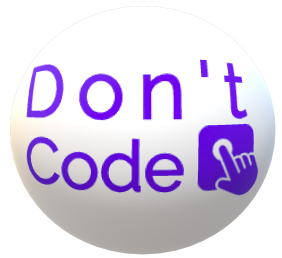
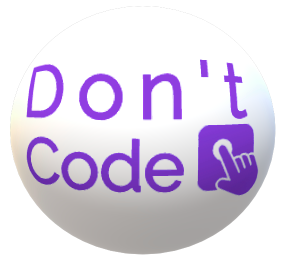
simplified homepage

diff --git a/index.html b/index.html
@@ -102,10 +102,10 @@
       <section class="home-section home-parallax home-fade module pb-0 bg-dark landing-reason parallax-bg" data-background="assets/images/builder-and-previewer.png">
         <div class="titan-caption">
           <div class="row">
-            <div class="col-sm-4" style="padding-left: 10%"><img src="assets/images/promo-small.png" alt=""></div>
+            <div class="col-sm-4" style="padding-left: 10%"><img src="assets/images/promo-small-violet.png" alt=""></div>
             <div class="col-sm-8">
               <h2 class="module-title font-alt align-left">Dont-code Platform</h2>
-              <p class="module-subtitle font-serif align-left">Instantly produce the application you need. .</p>
+              <p class="module-subtitle font-serif align-left">Instantly produce the application you need.</p>
               <p>Dont-code is a low-code / no-code platform letting user create their own applications based on complete feature sets developed by IT.</p>
               <a class="btn btn-border-w btn-round" href="apps.html" target="_blank"><i class="icon-desktop"></i>Try a demo application</a>
               <a class="btn btn-border-w btn-round video-pop-up" href="assets/images/dont-code-video.gif"><i class="icon-video"></i>Watch the creation of an application</a>
@@ -120,36 +120,36 @@
           <div class="container">
             <div class="row">
               <div class="col-sm-6 col-sm-offset-3">
-                <h2 class="module-title font-alt">Features</h2>
+                <h2 class="module-title font-alt">Highlights</h2>
                 <div class="module-subtitle font-serif">Dont-code platform is developed to offer the following benefits:</div>
               </div>
             </div>
             <div class="row multi-columns-row">
               <div class="col-md-4 col-sm-6 col-xs-12">
                 <div class="features-item">
-                  <div class="features-icon"><span class="icon-puzzle"></span></div>
-                  <h3 class="features-title font-alt">Less skills needed</h3>
-                  <p>No IT or Design skill needed. Just describe what you want and the platform manages the rest.</p>
+                  <div class="alt-features-icon"><span class="icon-puzzle"></span></div>
+                  <h3 class="alt-features-title font-alt">For everyone</h3>
+                  <p>No IT or Design skill needed: The person developing the application is the one using it.</p>
                 </div>
               </div>
               <div class="col-md-4 col-sm-6 col-xs-12">
                 <div class="features-item">
-                  <div class="features-icon"><span class="icon-hourglass"></span></div>
-                  <h3 class="features-title font-alt">Realtime feedback</h3>
+                  <div class="alt-features-icon"><span class="icon-hourglass"></span></div>
+                  <h3 class="alt-features-title font-alt">Realtime feedback</h3>
                   <p>Check the resulting application while you design it!</p>
                 </div>
               </div>
               <div class="col-md-4 col-sm-6 col-xs-12">
                 <div class="features-item">
-                  <div class="features-icon"><span class="icon-gears"></span></div>
-                  <h3 class="features-title font-alt">Highly Extensible</h3>
+                  <div class="alt-features-icon"><span class="icon-gears"></span></div>
+                  <h3 class="alt-features-title font-alt">Highly Extensible</h3>
                   <p>Extendable by any developer thanks to its plugin architecture and Open source license. See dev page...</p>
                 </div>
               </div>
             </div>
           </div>
         </section>
-        <section class="module module-extra-small bg-dark-60" data-background="assets/images/dont-code-video.gif" id="presentation">
+        <section class="module module-extra-small bg-dark-90" data-background="assets/images/dont-code-video.gif" id="presentation">
           <div class="container">
             <div class="row">
               <div class="col-sm-12">
@@ -160,10 +160,6 @@
                 </div>
               </div>
             </div>
-          </div>
-        </section>
-        <section class="module-small bg-dark">
-          <div class="container">
             <div class="row">
               <div class="col-sm-6 col-md-8 col-lg-6 col-lg-offset-2">
                 <div class="callout-text font-alt">
@@ -177,7 +173,50 @@
             </div>
           </div>
         </section>
-        <section class="module module-extra-small bg-light" id="situation">
+        <section class="module module-extra-small bg-light" id="features">
+          <div class="container">
+            <div class="row">
+              <div class="col-sm-6 col-sm-offset-3">
+                <h2 class="module-title font-alt">Dont-code features</h2>
+                <div class="module-subtitle font-serif">Dont-code (will) provide tools for end users, IT teams and technical platform developers to work together.</div>
+              </div>
+            </div>
+            <div class="row">
+              <div class="col-sm-6 col-md-3 col-lg-3">
+                <div class="alt-features-item">
+                  <div class="alt-features-icon"><span class="icon-strategy"></span></div>
+                  <h3 class="alt-features-title font-alt">Builder</h3>Create your application using this tool: Have your application in seconds just by answering questions.
+                </div>
+                <div class="alt-features-item">
+                  <div class="alt-features-icon"><span class="icon-tools-2"></span></div>
+                  <h3 class="alt-features-title font-alt">No Design</h3>Only few of us have designer's skills, with Dont-code you don't need to drag'n drop elements in a page.
+                </div>
+                <div class="alt-features-item">
+                  <div class="alt-features-icon"><span class="icon-target"></span></div>
+                  <h3 class="alt-features-title font-alt">Marketplaces</h3>Extensions will be available through a global marketplace, each enterprise can have a specific one with plugins pre-configured by IT Teams.
+                </div>
+              </div>
+              <div class="col-md-6 col-lg-6 hidden-xs hidden-sm">
+                <div class="alt-services-image align-center"><img src="assets/images/promo-violet.png" alt="Feature Image"></div>
+              </div>
+              <div class="col-sm-6 col-md-3 col-lg-3">
+                <div class="alt-features-item">
+                  <div class="alt-features-icon"><span class="icon-camera"></span></div>
+                  <h3 class="alt-features-title font-alt">Previewer</h3>See your application getting live while you work in the Builder. You can even edit data on the fly.
+                </div>
+                <div class="alt-features-item">
+                  <div class="alt-features-icon"><span class="icon-mobile"></span></div>
+                  <h3 class="alt-features-title font-alt">Extensible</h3>There's no limit in what extensions provided by any developer can modify the platform. A Seed project can get you started in not time!
+                </div>
+                <div class="alt-features-item">
+                  <div class="alt-features-icon"><span class="icon-linegraph"></span></div>
+                  <h3 class="alt-features-title font-alt">Open source</h3>The core Dont-code platform is under MIT license, the applications are licensed with AGPL3.
+                </div>
+              </div>
+            </div>
+          </div>
+        </section>
+        <section class="module module-extra-small bg-dark-90" id="situation">
           <div class="container">
             <div class="row">
               <div class="col-sm-6 col-sm-offset-3">
@@ -210,7 +249,7 @@
             </div>
           </div>
         </section>
-        <section class="module module-extra-small" id="solutions">
+        <section class="module module-extra-small bg-light" id="solutions">
           <div class="container">
             <div class="row">
               <div class="col-sm-6 col-sm-offset-3">
@@ -221,66 +260,23 @@
             <div class="row multi-columns-row">
               <div class="col-md-4 col-sm-6 col-xs-12">
                 <div class="features-item">
-                  <div class="features-icon"><span class="icon-presentation"></span></div>
-                  <h3 class="features-title font-alt">Users design application</h3>
+                  <div class="alt-features-icon"><span class="icon-presentation"></span></div>
+                  <h3 class="alt-features-title font-alt">Users design application</h3>
                   <p>Enterprise users creates their own applications by answering questions, and immediately see the result.</p>
                 </div>
               </div>
               <div class="col-md-4 col-sm-6 col-xs-12">
                 <div class="features-item">
-                  <div class="features-icon"><span class="icon-compass"></span></div>
-                  <h3 class="features-title font-alt">IT adapt features</h3>
+                  <div class="alt-features-icon"><span class="icon-compass"></span></div>
+                  <h3 class="alt-features-title font-alt">IT adapt features</h3>
                   <p>IT teams configure and deploy plugins working out of the box into their environments with the low-code tools provided by Dont-code platform.</p>
                 </div>
               </div>
               <div class="col-md-4 col-sm-6 col-xs-12">
                 <div class="features-item">
-                  <div class="features-icon"><span class="icon-toolbox"></span></div>
-                  <h3 class="features-title font-alt">Complexity is managed</h3>
+                  <div class="alt-features-icon"><span class="icon-toolbox"></span></div>
+                  <h3 class="alt-features-title font-alt">Complexity is managed</h3>
                   <p>Opensource or Market solutions are encapsulated into Dont-code plugins that will be adapted by the Enterprise IT teams.</p>
-                </div>
-              </div>
-            </div>
-          </div>
-        </section>
-        <section class="module module-extra-small" id="features">
-          <div class="container">
-            <div class="row">
-              <div class="col-sm-6 col-sm-offset-3">
-                <h2 class="module-title font-alt">Dont-code features</h2>
-                <div class="module-subtitle font-serif">Dont-code (will) provide tools for end users, IT teams and technical platform developers to work together.</div>
-              </div>
-            </div>
-            <div class="row">
-              <div class="col-sm-6 col-md-3 col-lg-3">
-                <div class="alt-features-item">
-                  <div class="alt-features-icon"><span class="icon-strategy"></span></div>
-                  <h3 class="alt-features-title font-alt">Builder</h3>Create your application using this tool: Have your application in seconds just by answering questions.
-                </div>
-                <div class="alt-features-item">
-                  <div class="alt-features-icon"><span class="icon-tools-2"></span></div>
-                  <h3 class="alt-features-title font-alt">No Design</h3>Only few of us have designer's skills, with Dont-code you don't need to drag'n drop elements in a page.
-                </div>
-                <div class="alt-features-item">
-                  <div class="alt-features-icon"><span class="icon-target"></span></div>
-                  <h3 class="alt-features-title font-alt">Marketplaces</h3>Extensions will be available through a global marketplace, each enterprise can have a specific one with plugins pre-configured by IT Teams.
-                </div>
-              </div>
-              <div class="col-md-6 col-lg-6 hidden-xs hidden-sm">
-                <div class="alt-services-image align-center"><img src="assets/images/promo.png" alt="Feature Image"></div>
-              </div>
-              <div class="col-sm-6 col-md-3 col-lg-3">
-                <div class="alt-features-item">
-                  <div class="alt-features-icon"><span class="icon-camera"></span></div>
-                  <h3 class="alt-features-title font-alt">Previewer</h3>See your application getting live while you work in the Builder. You can even edit data on the fly.
-                </div>
-                <div class="alt-features-item">
-                  <div class="alt-features-icon"><span class="icon-mobile"></span></div>
-                  <h3 class="alt-features-title font-alt">Extensible</h3>There's no limit in what extensions provided by any developer can modify the platform. A Seed project can get you started in not time!
-                </div>
-                <div class="alt-features-item">
-                  <div class="alt-features-icon"><span class="icon-linegraph"></span></div>
-                  <h3 class="alt-features-title font-alt">Open source</h3>The core Dont-code platform is under MIT license, the applications are licensed with AGPL3.
                 </div>
               </div>
             </div>
@@ -548,7 +544,7 @@
           </div>
         </section>
         <hr class="divider-d">
-        <footer class="footer bg-dark">
+        <footer class="footer bg-footer">
           <div class="container">
             <div class="row">
               <div class="col-sm-6">

diff --git a/apps.html b/apps.html
@@ -88,16 +88,22 @@
         <section class="module">
           <div class="container">
             <div class="row">
+              <div class="col-sm-6 col-sm-offset-3">
+                <h2 class="module-title font-alt">Demo applications</h2>
+                <div class="module-subtitle font-serif"></div>
+              </div>
+            </div>
+            <!-- div class="row">
               <div class="col-sm-12">
                 <ul class="filter font-alt" id="filters">
                   <li><a class="current wow fadeInUp" href="#" data-filter="*">All</a></li>
-                  <!-- li><a class="wow fadeInUp" href="#" data-filter=".illustration" data-wow-delay="0.2s">Illustration</a></li>
+                  <li><a class="wow fadeInUp" href="#" data-filter=".illustration" data-wow-delay="0.2s">Illustration</a></li>
                   <li><a class="wow fadeInUp" href="#" data-filter=".marketing" data-wow-delay="0.4s">Marketing</a></li>
                   <li><a class="wow fadeInUp" href="#" data-filter=".photography" data-wow-delay="0.6s">Photography</a></li>
-                  <li><a class="wow fadeInUp" href="#" data-filter=".webdesign" data-wow-delay="0.6s">Web Design</a></li -->
+                  <li><a class="wow fadeInUp" href="#" data-filter=".webdesign" data-wow-delay="0.6s">Web Design</a></li>
                 </ul>
               </div>
-            </div>
+            </div -->
             <ul class="works-grid works-grid-gut works-hover-w" id="works-grid">
               <li class="work-item illustration webdesign"><a href="https://dont-code.net/preview-ui/?projectId=Comparatif%20sans%20Gluten%20ni%20Lactose">
                 <div class="work-image"><img src="https://test.dont-code.net/dontcode/apps/sans-gluten-free-logo.jpg" alt="Comparatif no gluten"/></div>
@@ -145,7 +151,7 @@
           </div>
         </section>
         <hr class="divider-d">
-        <footer class="footer bg-dark">
+        <footer class="footer bg-footer">
           <div class="container">
             <div class="row">
               <div class="col-sm-6">

diff --git a/assets/css/style.css b/assets/css/style.css
@@ -248,12 +248,17 @@ a,
 }
 
 .bg-dark {
-  background: #111;
+  /*background: rgba(66, 26, 107, 1);*/
+  background: #e6af4b;
+}
+
+.bg-footer {
+  background: rgba(66, 26, 107, 0.4);
 }
 
 .bg-dark-30:before {
   position: absolute;
-  background: rgba(2, 2, 2, 0.4);
+  background: rgba(66,26,107, 0.4);
   content: " ";
   height: 100%;
   width: 100%;
@@ -263,7 +268,7 @@ a,
 
 .bg-dark-60:before {
   position: absolute;
-  background: rgba(34, 34, 34, 0.8);
+  background: rgba(66, 26, 107, 0.6);
   content: " ";
   height: 100%;
   width: 100%;
@@ -273,7 +278,7 @@ a,
 
 .bg-dark-90:before {
   position: absolute;
-  background: rgba(34, 34, 34, 0.9);
+  background: rgba(66, 26, 107, 0.9);
   content: " ";
   height: 100%;
   width: 100%;
@@ -301,7 +306,8 @@ a,
 }
 
 .bg-light {
-  background: #f6f6f6;
+  /*background: #f6f0f6;*/
+  background: #fff8ef;
 }
 
 .parallax-bg {
@@ -611,7 +617,7 @@ a,
   height: 100%;
   left: 0;
   top: 0;
-  background-color: rgba(44, 43, 234, 0.9);
+  background-color: rgba(66, 26, 107, 0.9);
 }
 
 .landing-reason {
@@ -1548,14 +1554,28 @@ Google map
   text-align: center;
 }
 
-.features-icon,
+.features-icon
+{
+  line-height: 1.2;
+  font-size: 42px;
+  color: #ffffff;
+}
+
 .alt-features-icon {
   line-height: 1.2;
   font-size: 42px;
   color: #111;
 }
 
-.features-title,
+.features-title {
+  text-transform: uppercase;
+  letter-spacing: 2px;
+  font-weight: 400;
+  font-size: 14px;
+  color: #ffffff;
+  margin: 16px 0 15px;
+}
+
 .alt-features-title {
   text-transform: uppercase;
   letter-spacing: 2px;

diff --git a/news.html b/news.html
@@ -634,7 +634,7 @@ if (value) {
           </div>
         </section>
         <hr class="divider-d">
-        <footer class="footer bg-dark">
+        <footer class="footer bg-footer">
           <div class="container">
             <div class="row">
               <div class="col-sm-6">

diff --git a/developers.html b/developers.html
@@ -207,7 +207,7 @@
           </div>
         </section>
         <hr class="divider-d">
-        <footer class="footer bg-dark">
+        <footer class="footer bg-footer">
           <div class="container">
             <div class="row">
               <div class="col-sm-6">
